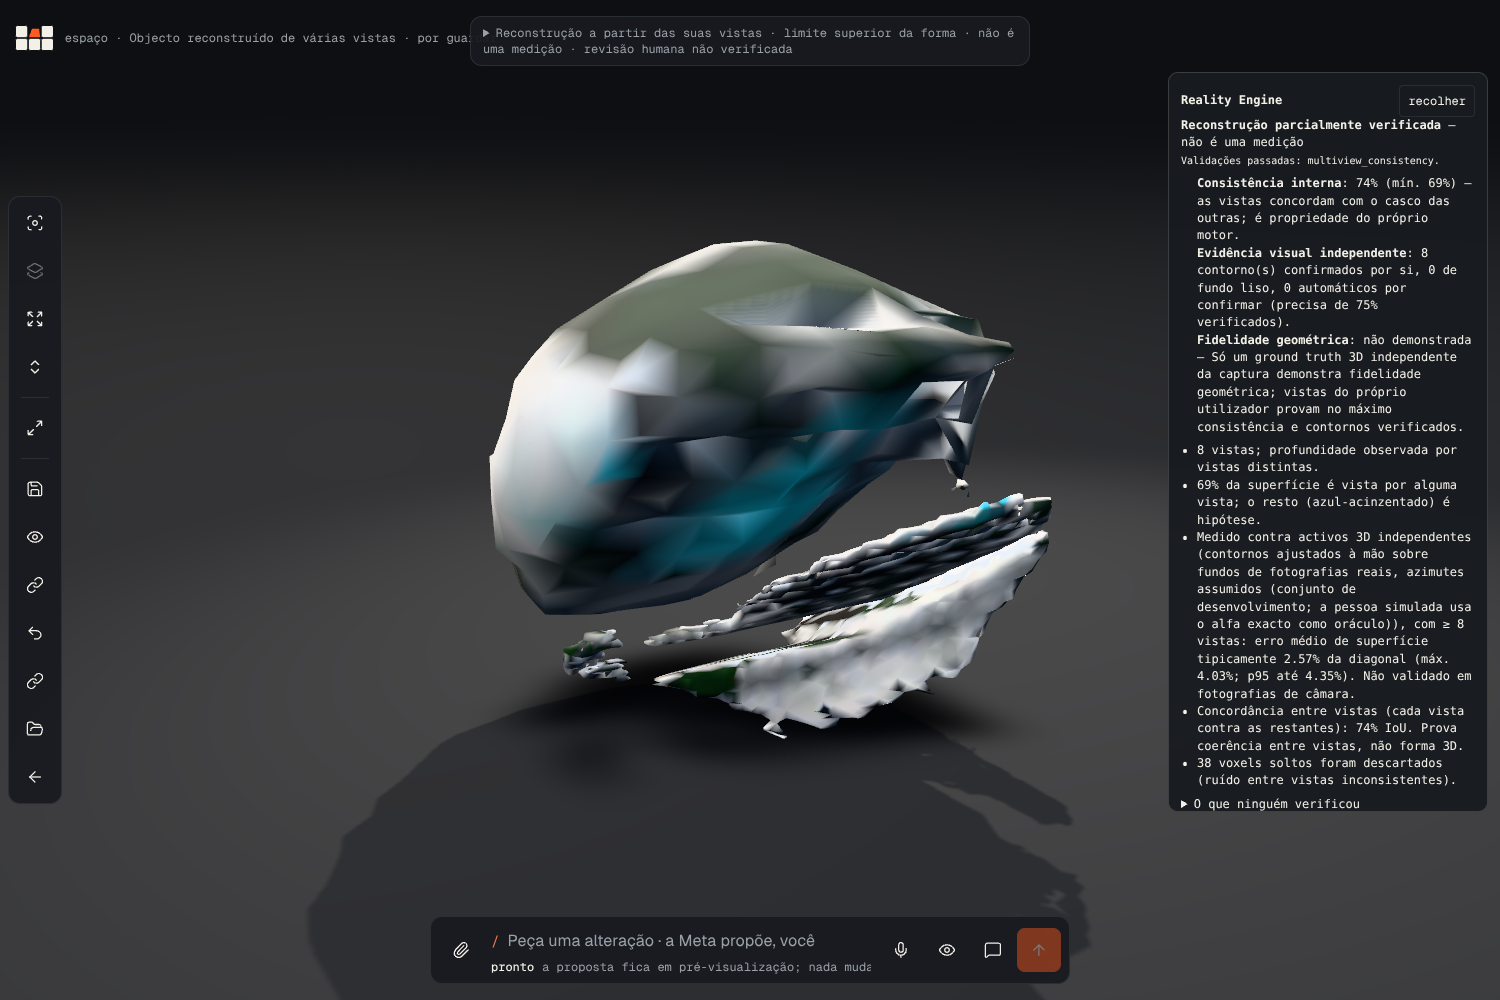
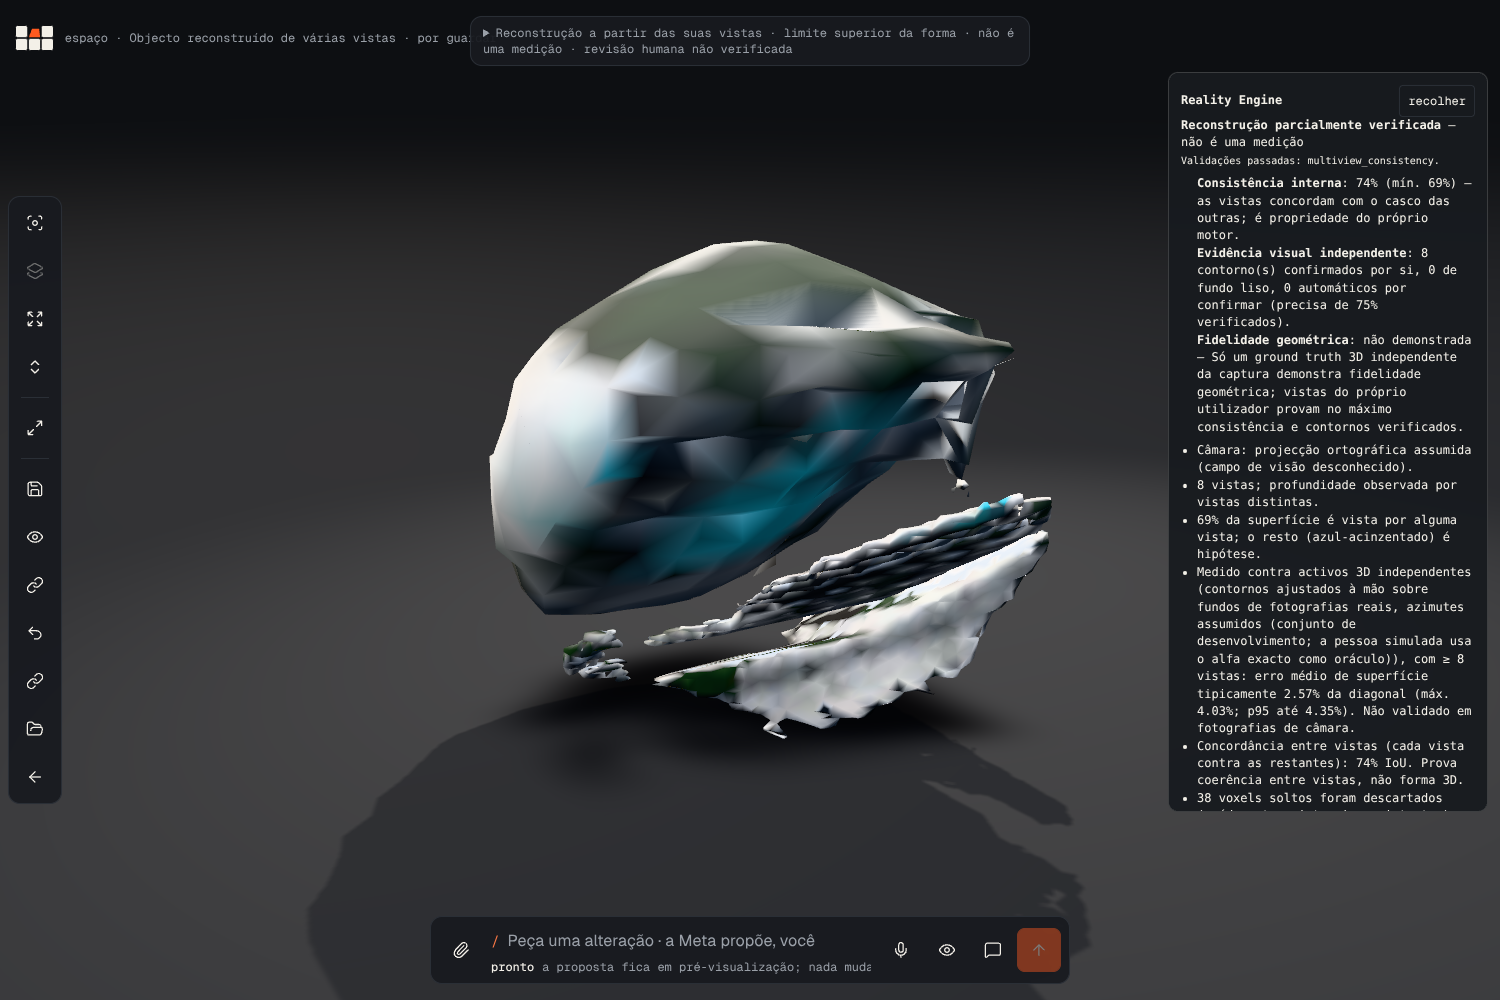
Reality: report section 12 (fidelity axes, assisted structure, capture gate, camera provenance, local ingestion, envelope)
Claude-Session: https://claude.ai/code/session_013wFH9SHKMFc3SMeXgrF6ct

Changed region(s): [[0.7973, 0.434, 0.9813, 0.806]]

diff --git a/reports/reality-engine/REPORT.md b/reports/reality-engine/REPORT.md
@@ -247,3 +247,32 @@ Harness `component-eval.ts` no caminho de produto (8 renders, contornos exactos)
 
 ### 11.7 Ambiente
 `npm test`: 3 falhas, as mesmas de sempre (`spatial-persistence-failures` ×2, `spatial-review-binding-transition`), falham igualmente sem as minhas alterações porque o contentor corre como root. `npm run build` passa.
+
+## 12. Mudança de estratégia (continuação após `318bd65`) — confiança, estrutura, câmara, captura
+
+**Estado: NO-GO mantido.** O casco visual ficou como fallback e deixou de ser o foco de optimização; o trabalho passou para a calibração da confiança, a identidade das peças, a captura e a câmara.
+
+### 12.1 Classificação de fidelidade (falsa confiança do AntiqueCamera)
+- **Investigação:** o AntiqueCamera (fundo fixo, contornos de fundo estático com IoU 0,51 — as pernas do tripé perdem-se) tinha concordância entre vistas acima do limiar e geometria a 6,1% da diagonal, e saía «parcialmente verificado». A concordância mede se as vistas concordam com o casco das outras; um erro repetido em todas as vistas concorda perfeitamente (e o casco de uma região estática é um prisma consistente). Tentei detectar contornos errados por alinhamento com arestas da imagem e por contraste dentro/fora: AUC 0,63–0,65, fraco demais para ser critério.
+- **Correcção (`assessment.ts`):** a avaliação separa três eixos — *consistência interna*, *evidência visual independente* (contornos confirmados por pessoa ou de fundo liso medido; mínimo 75%) e *fidelidade geométrica* (só com ground truth 3D independente: nunca para vistas do utilizador). «Parcialmente verificado» exige os dois primeiros; consistência sozinha dá «não validado» com o bloqueio escrito («Confirme os contornos…»). O painel de revisão mostra os três eixos.
+- **Medido** (`product-eval-cached.json`, 14 activos × 3 condições, contornos automáticos): **0** resultados `partially_verified` com contornos automáticos por confirmar (antes 12 em `fixed`, incluindo o AntiqueCamera). Com contornos confirmados (protocolo assistido, `product-results-realbg`) 11/14 chegam a `partially_verified`, mediana de chamfer 2,55% da diagonal. O custo da honestidade é que a captura automática precisa de um clique de confirmação por vista.
+
+### 12.2 Estrutura efectiva e correcção assistida
+- Sem subdivisões arbitrárias: nenhuma subdivisão automática nova foi ligada (cor, SAM, decomposição convexa: nenhuma melhora os dois referenciais, §11.2). Em vez disso, **correcção assistida integrada antes de construir o Space** (`parts.ts: applyPartEdits`, `intake-panel`): fundir, dividir por plano de eixo, dar nome. As partes são identificadas por **pontos-semente dentro delas** (não por números), por isso a correcção mantém o sentido se a grelha ou a evidência mudar; ficam em `evidence.partEdits` com `by: 'person'`, **em separado** da estrutura automática; remover a correcção devolve exactamente a automática; uma correcção impossível (plano que deixa um lado com < 12 voxels, ponto fora de qualquer parte) é recusada e dita, nunca adivinhada. A revisão mostra partes coloridas em 3 poses, % do volume e vistas que cada parte vê («pouca evidência»). O plano resultante usa os mesmos ids estáveis e rotula «nome dado por si». E2E: 4→5 partes, nome e componentes presentes no Space construído.
+- **Medido com utilizador simulado por oráculo** (rotulado: o oráculo conhece a referência, não é pessoa): com até 4 correcções, peças recuperadas nos activos de aceitação 8→10/27 (nós) e **4→14/45 (cascas físicas)**, ARI das cascas 0,04→0,52, pureza 0,49→0,67; em desenvolvimento 6→13/18 (cascas). Com 8 correcções 16/45. Isto mede o que a ferramenta consegue, não o que uma pessoa faz.
+- Reversibilidade: o histórico de versões existente (desfazer/refazer) cobre a evidência com correcções. Limite declarado: as correcções aplicam-se **antes** de construir; mudar a estrutura de um Space já construído exige reconstruir (o Spatial Core não tem operações de acrescentar/remover componentes).
+
+### 12.3 Captura inteligente
+`capture-gate.ts`: antes de construir, a análise devolve `ok`, `low-confidence` ou `blocked`, com **o que falta e o que fazer**: contornos automáticos por confirmar, elevação desconhecida, poucas vistas com ângulos assumidos, lacuna angular, sem vista de cima, desfoque, exposição, resolução, objecto cortado; e, como informação, o estado da câmara. Em baixa confiança o botão fica bloqueado até a pessoa marcar que percebe o que falta; passa a dizer «Reconstruir (baixa confiança)» e **a ressalva fica escrita nas hipóteses da evidência**. Nunca se segue em silêncio. E2E mede o bloqueio, a lista e o desbloqueio.
+
+### 12.4 Câmara perspectiva
+Integrada de forma consistente (`SilhouetteView.fovDeg` reconstrói a câmara a partir do próprio azimute, por isso o refinamento de poses e a validação ficam coerentes; `viewProjector` único usado pelo casco, cor, visibilidade, fotometria, estrutura, refinamento e revisão). Proveniência no contrato da evidência: `camera.source` é **`declared`** (campo de visão indicado pelo utilizador, «não verificado») ou **`estimated`** (escolhido pela concordância entre as vistas, **«não foi medido»**; nunca promovido). A estimativa só é adoptada se ganhar ≥ 0,04 de concordância sobre a hipótese ortográfica. Evidência antiga (sem `camera`) é byte-compatível. Medido no produto (`camera-eval.json`, 14 activos): FOV 12° — adoptada em 0, resultado idêntico; **40°** — adoptada em 3, 2 melhores, 1 ligeiramente pior (+0,06 pp), mediana 3,01→2,99; **65°** — adoptada em 6, 5 melhores, 0 piores, mediana 3,48→3,16, média 3,10→2,89 (−7%). Ganho modesto, nunca materialmente pior; custo ≈ 0,7 s por análise.
+
+### 12.5 Validação real e avaliadores humanos
+Ingestão por **ficheiros locais** (`scripts/datasets/import-local.ts`): COLMAP texto (ETH3D, SfM) e câmaras MVSNet (derivados de DTU) + máscaras PNG/PGM + referência PLY → layout lido por `scan-directory.ts`; **licença obrigatória e copiada para `meta.json`**; distorção da lente declarada, não corrigida; imagens sem máscara listadas. Testado com um scan sintético COLMAP escrito em disco. Splits continuam congelados (teste recalcula). **Avaliação humana independente fica registada como dependência externa** com protocolo (`HUMAN-EVALUATION-PROTOCOL.md`); nenhum número do relatório é, nem pode ser, uma avaliação humana. Datasets não descarregados; nenhuma certificação.
+
+### 12.6 Envelope suportado (medido, n pequeno)
+Reconstrução com **contornos confirmados**: os 14 activos dão casco com chamfer mediano ≈ 2,5% da diagonal (1,2–6% conforme o activo), objectos opacos e rígidos, ≥ 8 vistas, elevação declarada. **Fora do envelope:** contornos automáticos sem confirmação em fundos que mudam (59–67% errados), estruturas finas e objectos transparentes/reflectores (perdem-se ou enganam a segmentação), concavidades e cavidades (o casco preenche-as), peças recuperadas sem correcção humana (8/27 nós, 4/45 cascas). Interfaces já aceites funcionalmente não foram polidas nesta ronda.
+
+### 12.7 Testes
+`npm test`: 2789 testes, 2786 passam e 3 falham por ambiente (root), as mesmas de sempre; `npm run build` passa; E2E de captura e do motor passam. Novos testes: eixos de fidelidade, gate de captura, correcções de partes (fundir/dividir/nomear/recusar/versão), câmara (estimada/declarada/ortográfica/compatível), importação local, splits, avaliação de scans.
